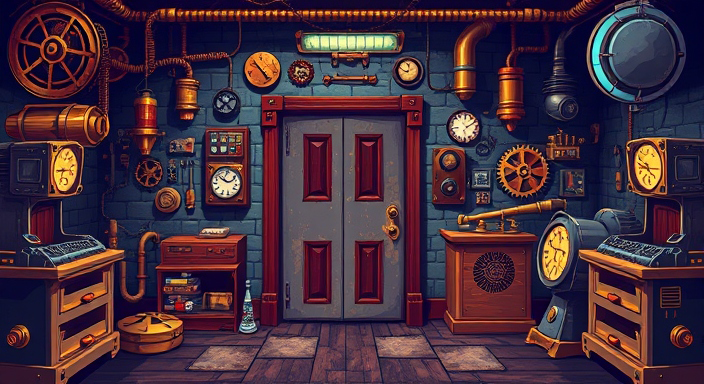
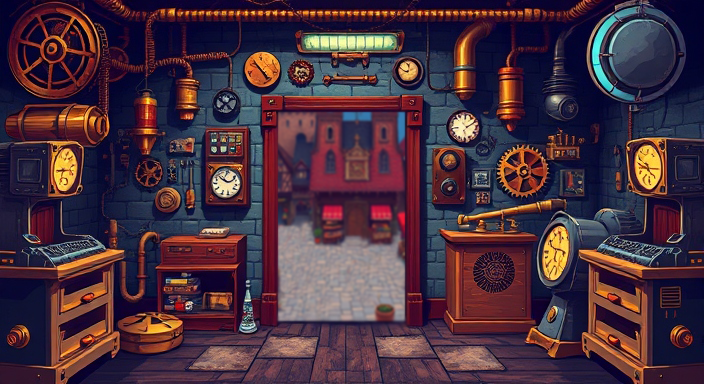
added den internal door

Changed region(s): [[0.375, 0.2812, 0.5938, 0.8438]]

diff --git a/events.js b/events.js
@@ -74,6 +74,12 @@ async function openCloseGenericUnlockedDoor(objectToUseWith, dialogueString, rea
     const language = getLanguage();
     const gridData = getGridData();
 
+    const reduceExpandWidthFactor = objectData.openCloseScaleFactorX;
+    const reduceExpandHeightFactor = objectData.openCloseScaleFactorY;
+
+    const restoreFactorWidth = 1 / reduceExpandWidthFactor;
+    const restoreFactorHeight = 1 / reduceExpandHeightFactor;
+
     switch (realVerbUsed) {
         case 'verbOpen':
         case 'verbUse':
@@ -83,7 +89,7 @@ async function openCloseGenericUnlockedDoor(objectToUseWith, dialogueString, rea
                 updateGrid();
 
                 setTimeout(() => {
-                    addEntityToEnvironment(doorId, getObjectData().objects[doorId].gridPosition.x + (Math.floor(getObjectData().objects[doorId].visualAnimatedStateOffsets.s2.x / getCanvasCellWidth())), getObjectData().objects[doorId].gridPosition.y + (Math.floor(getObjectData().objects[doorId].visualAnimatedStateOffsets.s2.y / getCanvasCellHeight())), getObjectData().objects[doorId].offset.x, getObjectData().objects[doorId].offset.y, getObjectData().objects[doorId].dimensions.width, getObjectData().objects[doorId].dimensions.height, 's2', true, getObjectData().objects[doorId].objectPlacementLocation);
+                    addEntityToEnvironment(doorId, getObjectData().objects[doorId].gridPosition.x + (Math.floor(getObjectData().objects[doorId].visualAnimatedStateOffsets.s2.x / getCanvasCellWidth())), getObjectData().objects[doorId].gridPosition.y + (Math.floor(getObjectData().objects[doorId].visualAnimatedStateOffsets.s2.y / getCanvasCellHeight())), getObjectData().objects[doorId].offset.x, getObjectData().objects[doorId].offset.y, (getObjectData().objects[doorId].dimensions.width * reduceExpandWidthFactor), (getObjectData().objects[doorId].dimensions.height * reduceExpandHeightFactor), 's2', true, getObjectData().objects[doorId].objectPlacementLocation);
                     setPreAnimationGridState(gridData, doorId, true);
                     updateGrid();
                     setTimeout(() => {
@@ -96,14 +102,14 @@ async function openCloseGenericUnlockedDoor(objectToUseWith, dialogueString, rea
                 await showText(dialogueString, getColorTextPlayer());
             }
             break;
-        case 'verbClose':
+        case 'verbClose':            
             if (objectData.interactable.activeStatus) {
                 setAnimationInProgress(true);
                 removeObjectFromEnvironment(doorId, getCurrentScreenId());
                 updateGrid();
 
                 setTimeout(() => {
-                    addEntityToEnvironment(doorId, getObjectData().objects[doorId].gridPosition.x, getObjectData().objects[doorId].gridPosition.y, getObjectData().objects[doorId].offset.x, getObjectData().objects[doorId].offset.y, getObjectData().objects[doorId].dimensions.width, getObjectData().objects[doorId].dimensions.height, 's1', true, getObjectData().objects[doorId].objectPlacementLocation);
+                    addEntityToEnvironment(doorId, getObjectData().objects[doorId].gridPosition.x, getObjectData().objects[doorId].gridPosition.y, getObjectData().objects[doorId].offset.x, getObjectData().objects[doorId].offset.y, (getObjectData().objects[doorId].dimensions.width * restoreFactorWidth), (getObjectData().objects[doorId].dimensions.height * restoreFactorHeight), 's1', true, getObjectData().objects[doorId].objectPlacementLocation);
                     setPreAnimationGridState(gridData, doorId, true);
                     updateGrid();
                     setTimeout(() => {

diff --git a/constantsAndGlobalVars.js b/constantsAndGlobalVars.js
@@ -23,10 +23,10 @@ export const urlCustomMouseCursorNormal = './resources/mouse/mouseCrosshair.png'
 export const urlCustomMouseCursorHoverInteresting = './resources/mouse/mouseHoverInteresting.png';
 export const urlCustomMouseCursorClickInteresting = './resources/mouse/mouseClickInteresting.png';
 export const urlCustomMouseCursorError = './resources/mouse/mouseNoPathFound.png';
-export const INITIAL_GAME_ID_NORMAL = 'libraryFoyer';
+export const INITIAL_GAME_ID_NORMAL = 'den';
 export const INITIAL_GAME_ID_DEBUG = 'debugRoom';
 export const PRE_INITIAL_GAME_BACKGROUND = './resources/backgrounds/preStartBackgroundImage.png'; //pre intro
-export const INITIAL_GAME_BACKGROUND_URL_NORMAL = './resources/backgrounds/libraryFoyer.png';
+export const INITIAL_GAME_BACKGROUND_URL_NORMAL = './resources/backgrounds/den.png';
 export const INITIAL_GAME_BACKGROUND_URL_DEBUG = './resources/backgrounds/debugRoom.png';
 export const MENU_STATE = 'menuState';
 export const GAME_VISIBLE_ACTIVE = 'gameVisibleActive';
